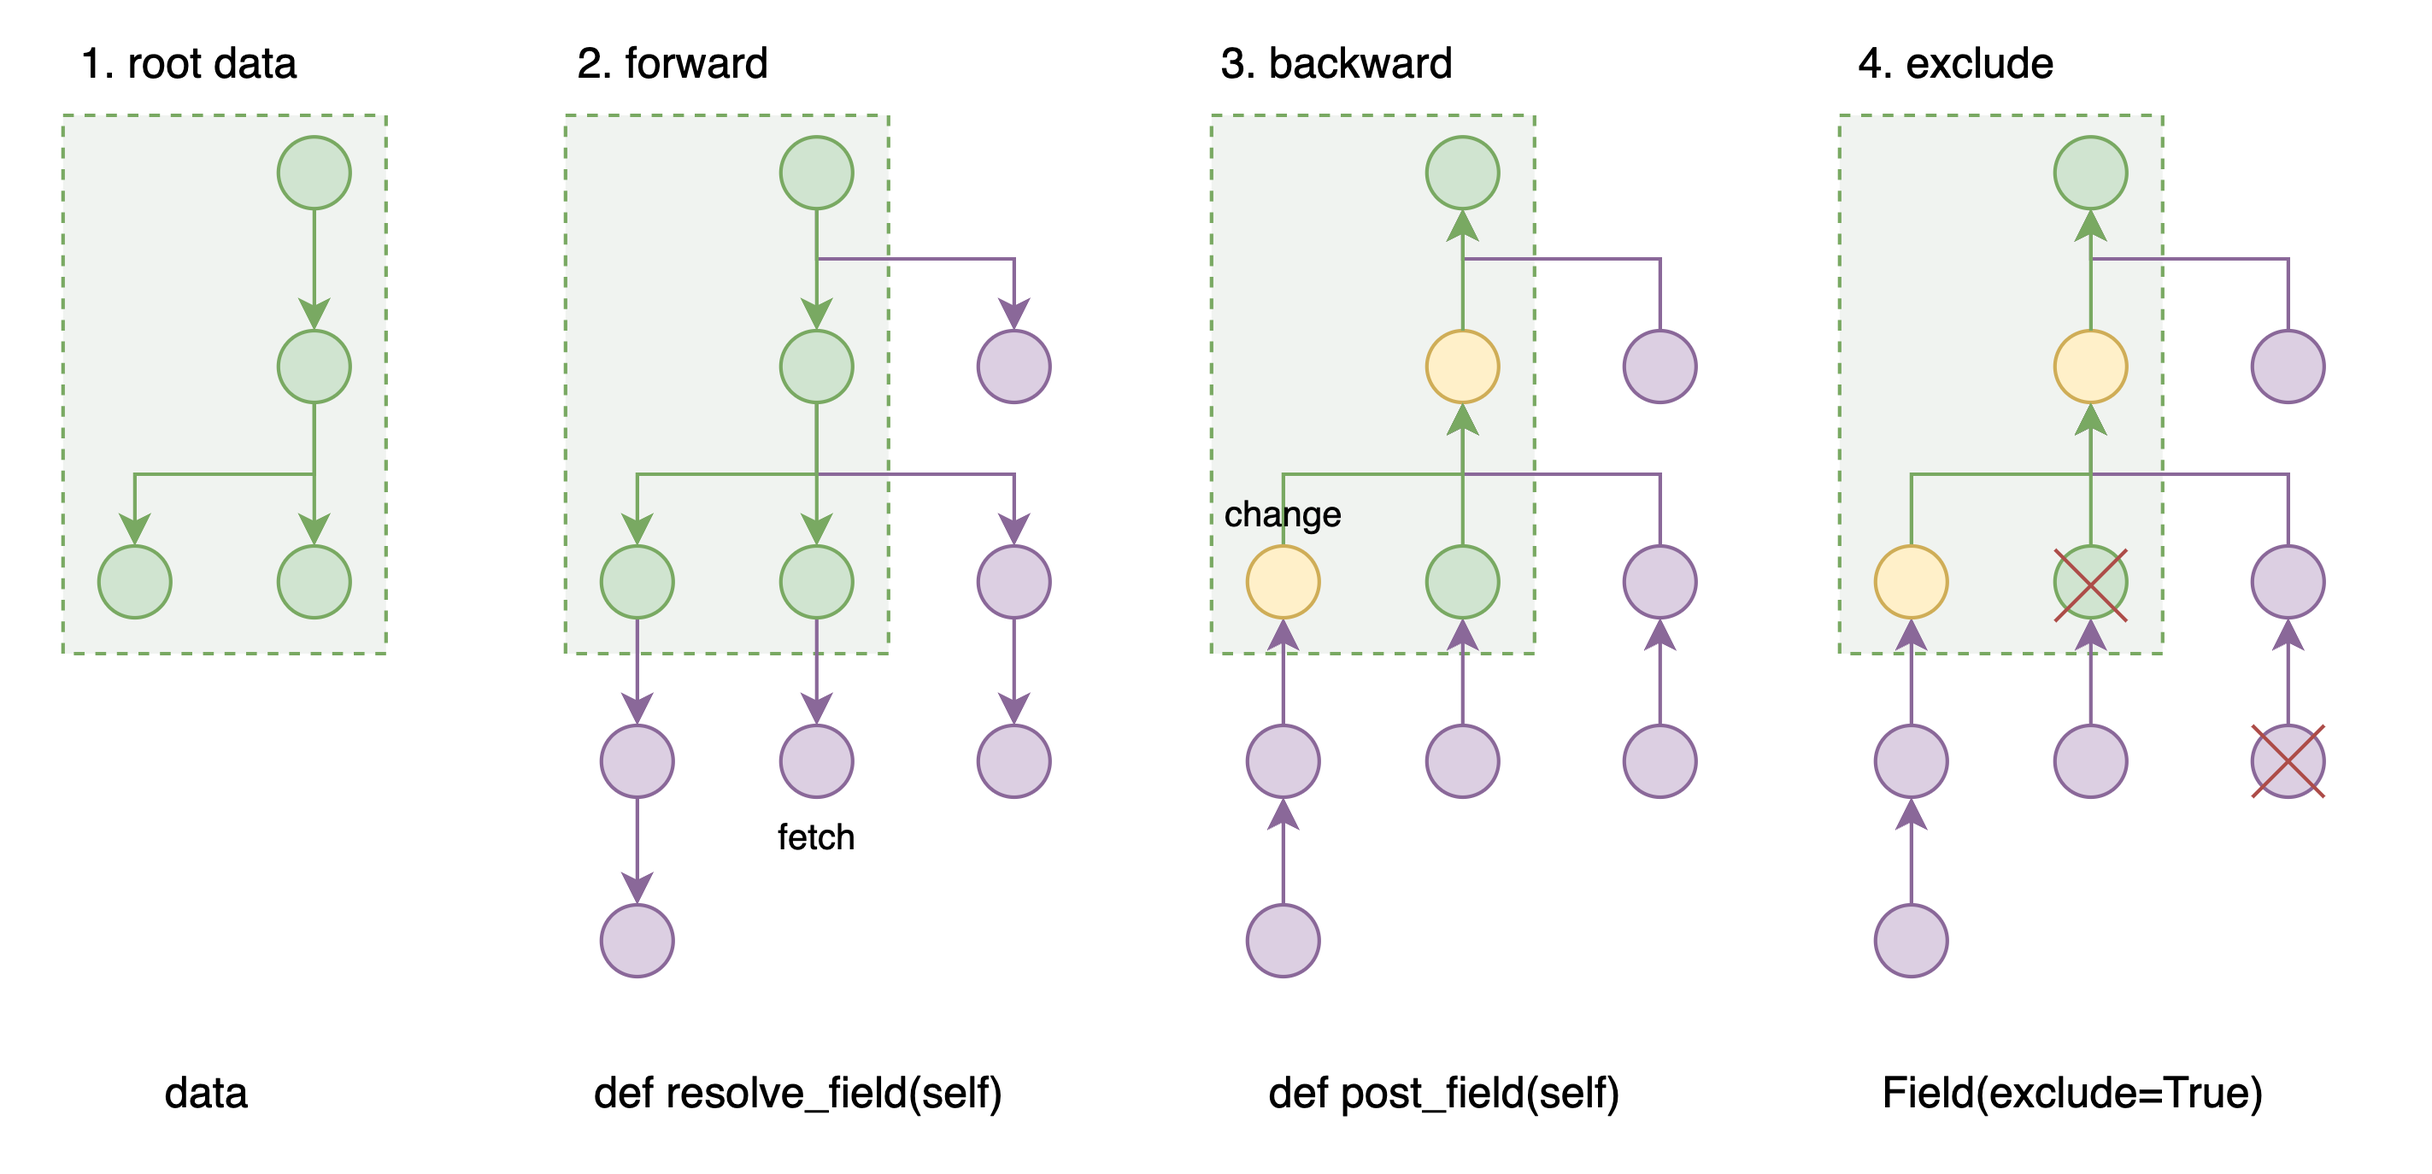
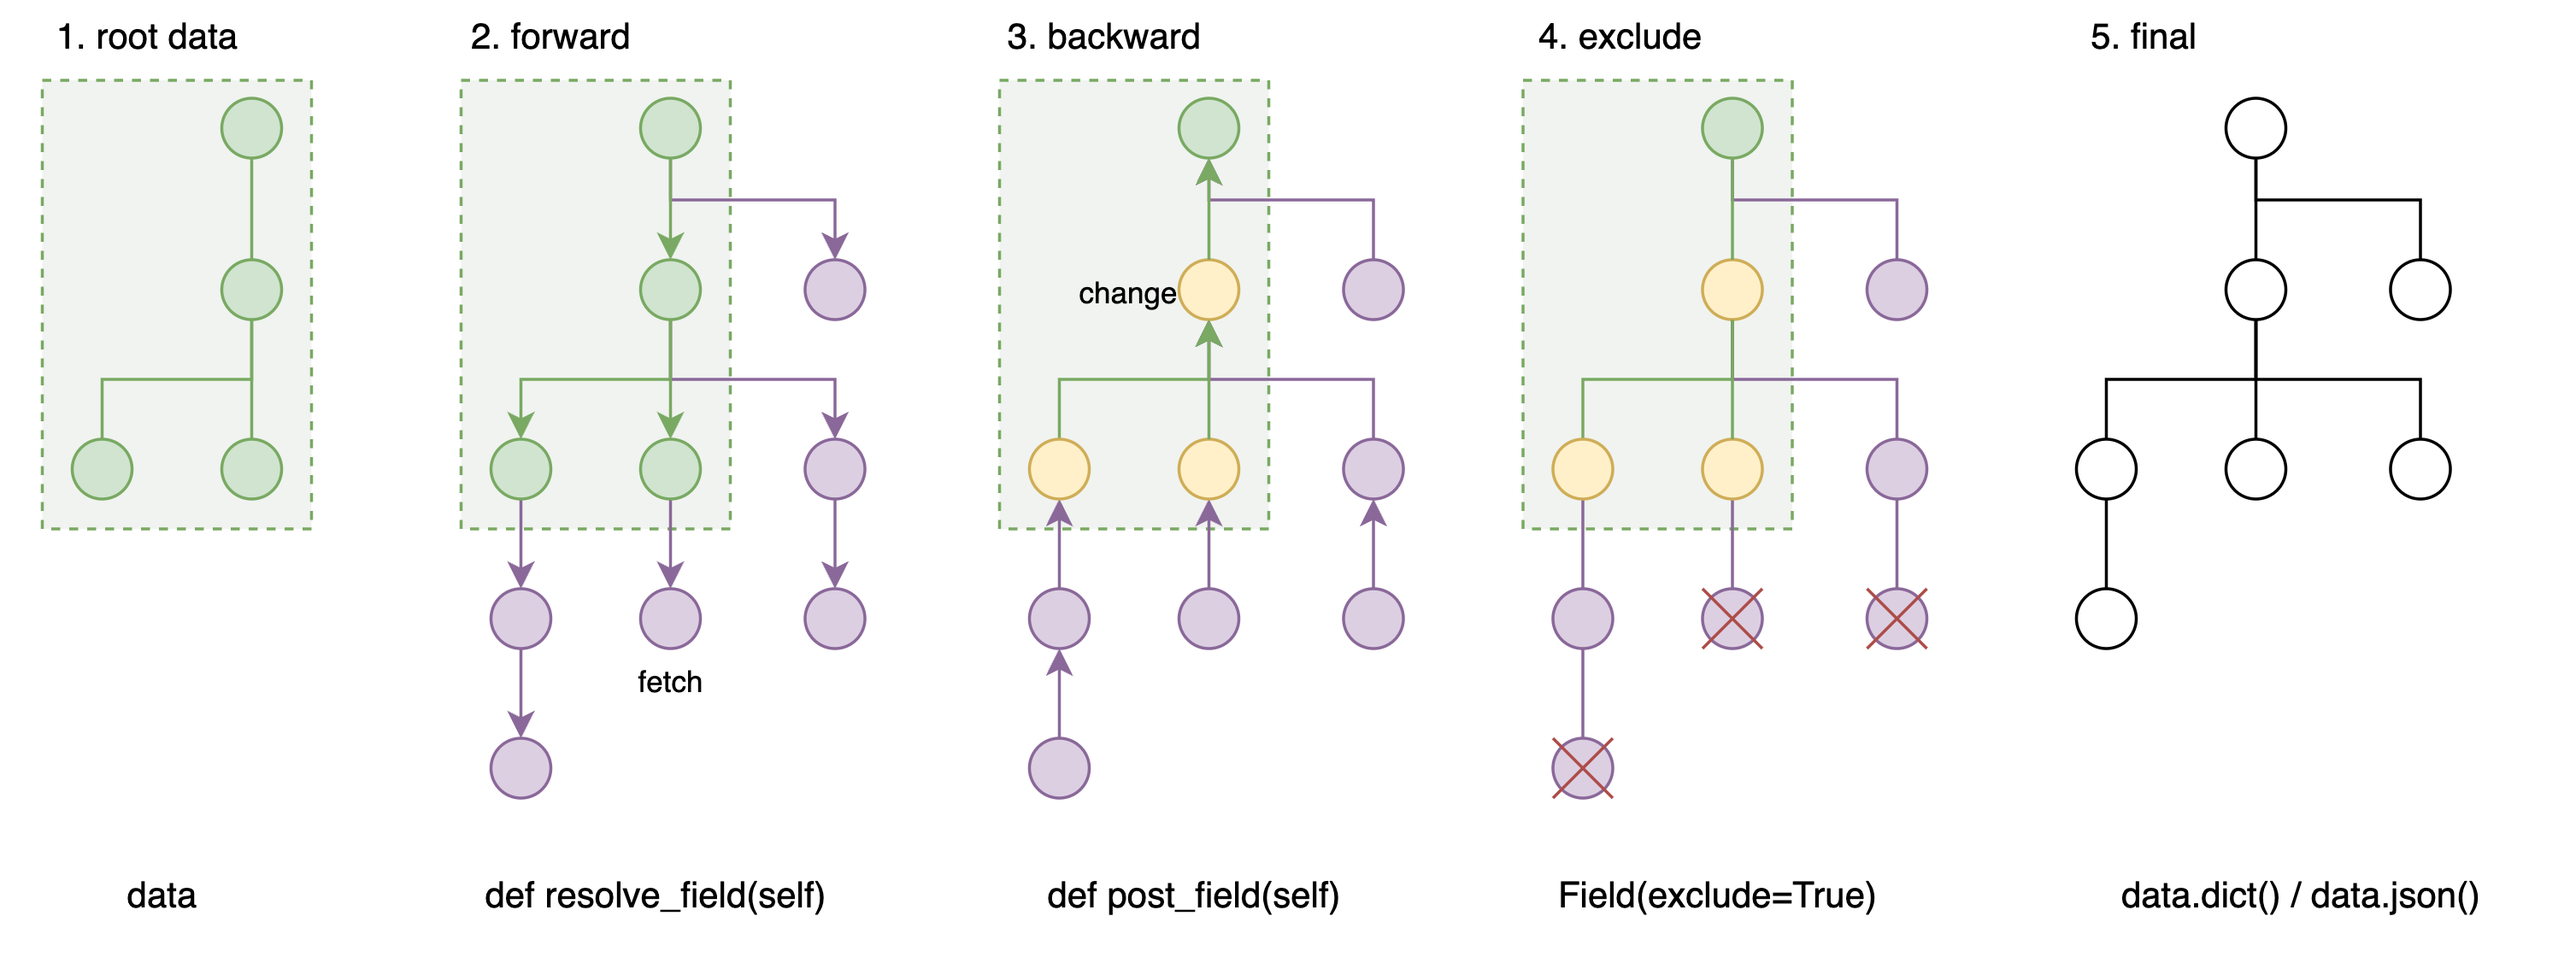
update diagram

diff --git a/readme-cn.md b/readme-cn.md
@@ -188,7 +188,9 @@ async def main():
 3. 让`Resolver`遍历解析出来所有的数据 (树枝,树叶).
 
 resolve过程包含了 forward fetch, backward change 和 exclude fields 三个环节.
+
 ![](./static/concept.png)
+
 
 > 根数据本身当然也可以是嵌套的结构
 
@@ -409,7 +411,7 @@ uvicorn src.main:app --port=8000 --reload
 
 ## 总结
 
-走完了所有的Example 之后, 你也许会发现, 尽管我们在 router 的schema 中组合出来了各种结构的数据, services 目录下的文件保持了相当程度的简洁和稳定, 这是组合模式最大的优点, 分离了业务中的稳定和不稳定的部分.
+走完了所有的Example 之后, 你也许会发现, 尽管我们在 router 的schema 中组合出来了各种结构的数据, services 目录下的文件始终保持了相当程度的简洁和稳定, 这是组合模式最大的优点, 分离了业务中的稳定和不稳定的部分.
 
 每个 service 模块通过暴露自己的:
 - query, 业务查询
@@ -419,9 +421,11 @@ uvicorn src.main:app --port=8000 --reload
 
 就能满足 router 层视图 schema 的所有需要.
 
-query 层可以专注在**主数据**的查询上, 这样降低了查询的复杂度, 进而使得核心业务逻辑的可维护性得到提升. 测试也更加容易覆盖.
+这感觉就像, 盒子中的积木虽然有无数种组合可能, 我们只需要挑选组装出我们所需的那一种.
 
-loader 层提供各种关联数据, 既可以从数据库查询, 也可以走RPC调用, 为后续架构调整保留了弹性. 于是从单体架构转变为微服务的过程会减少许多阻力.
+query 可以专注在**主数据**的查询上, 这样降低了查询的复杂度, 进而使得核心业务逻辑的可维护性得到提升. 测试也更加容易覆盖.
+
+loader 提供各种关联数据, 既可以从数据库查询, 也可以走RPC调用, 为后续架构调整保留了弹性. 于是从单体架构转变为微服务的过程会减少许多阻力.
 
 使用这样的组合功能, 将各个 service 提供的数据, 用申明的方式组织起来, 在提升开发效率的同时, 最大程度保证了业务代码的可读和可维护. 
 
@@ -432,8 +436,11 @@ loader 层提供各种关联数据, 既可以从数据库查询, 也可以走RPC
 最后需要说明一下, pydantic-resolve 负责了按层级展开的数据获取和调整的过程, 使得开发只需要专注在每一层如何获取子数据, 以及如何在获取子数据之后进行修改. 所以平时冗长的for 循环展开都消失不见了, 在减少了代码噪音之后, 我们就能更加专注在核心功能上了.
 
 
-最后, 读到这里, 您可能发现, 这套模式, 其实还挺适合 BFF 的 :)
-  
+最后依然使用这张示意图来作为结尾.
+
+![](./static/concept.png)
+
+最后的最后, 读到这里, 您可能发现, 这套模式, 看起来还挺适合 BFF 的 :)
 > 当然, python 不是 BFF 的主流选择, 这个是个硬伤, 也许未来可以开发一套nodejs 版本的.
 
 完.
